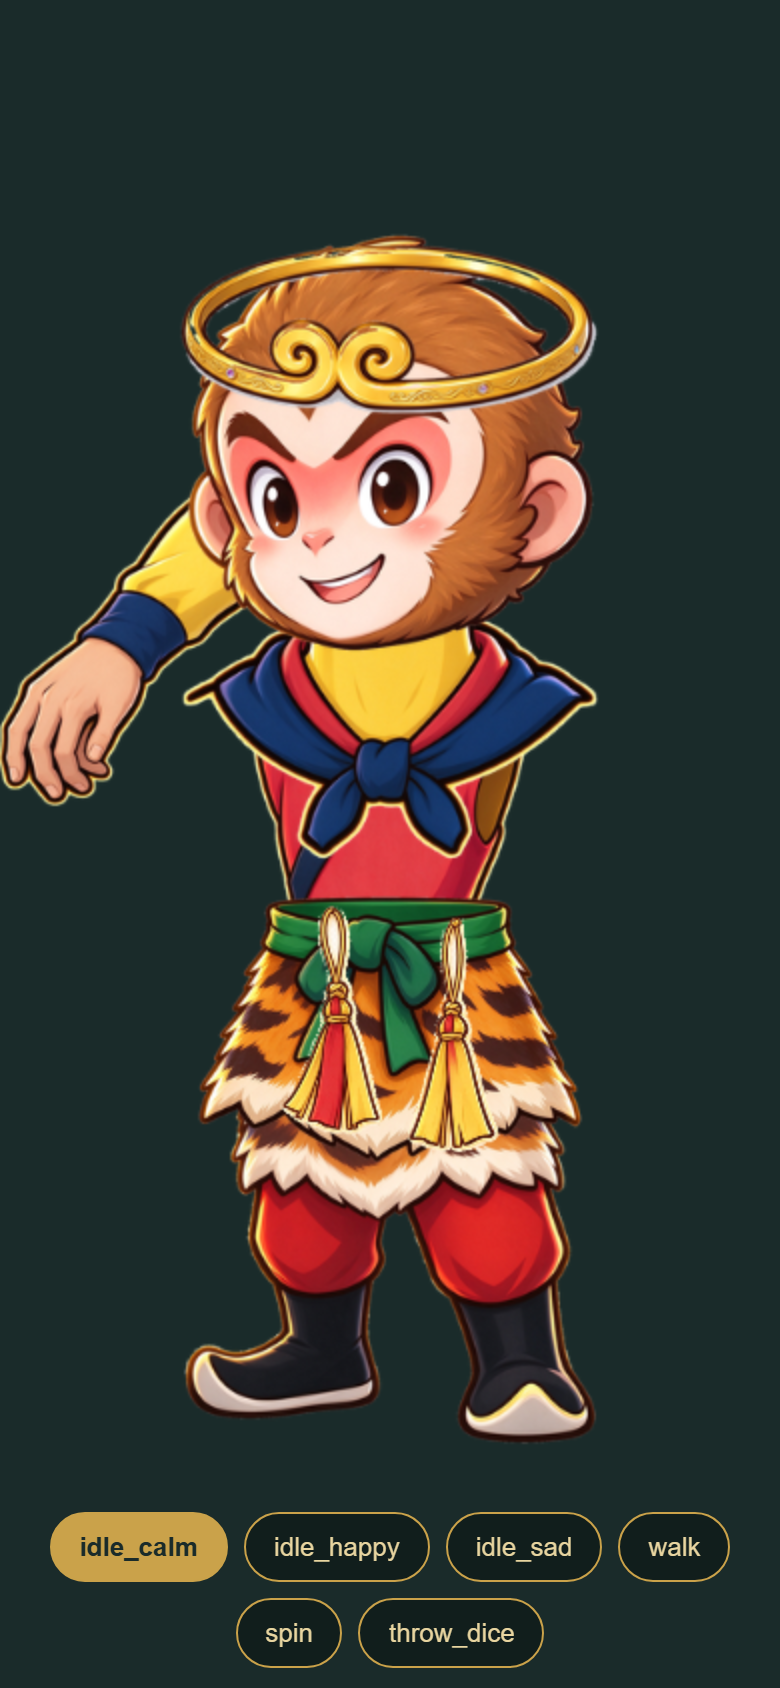
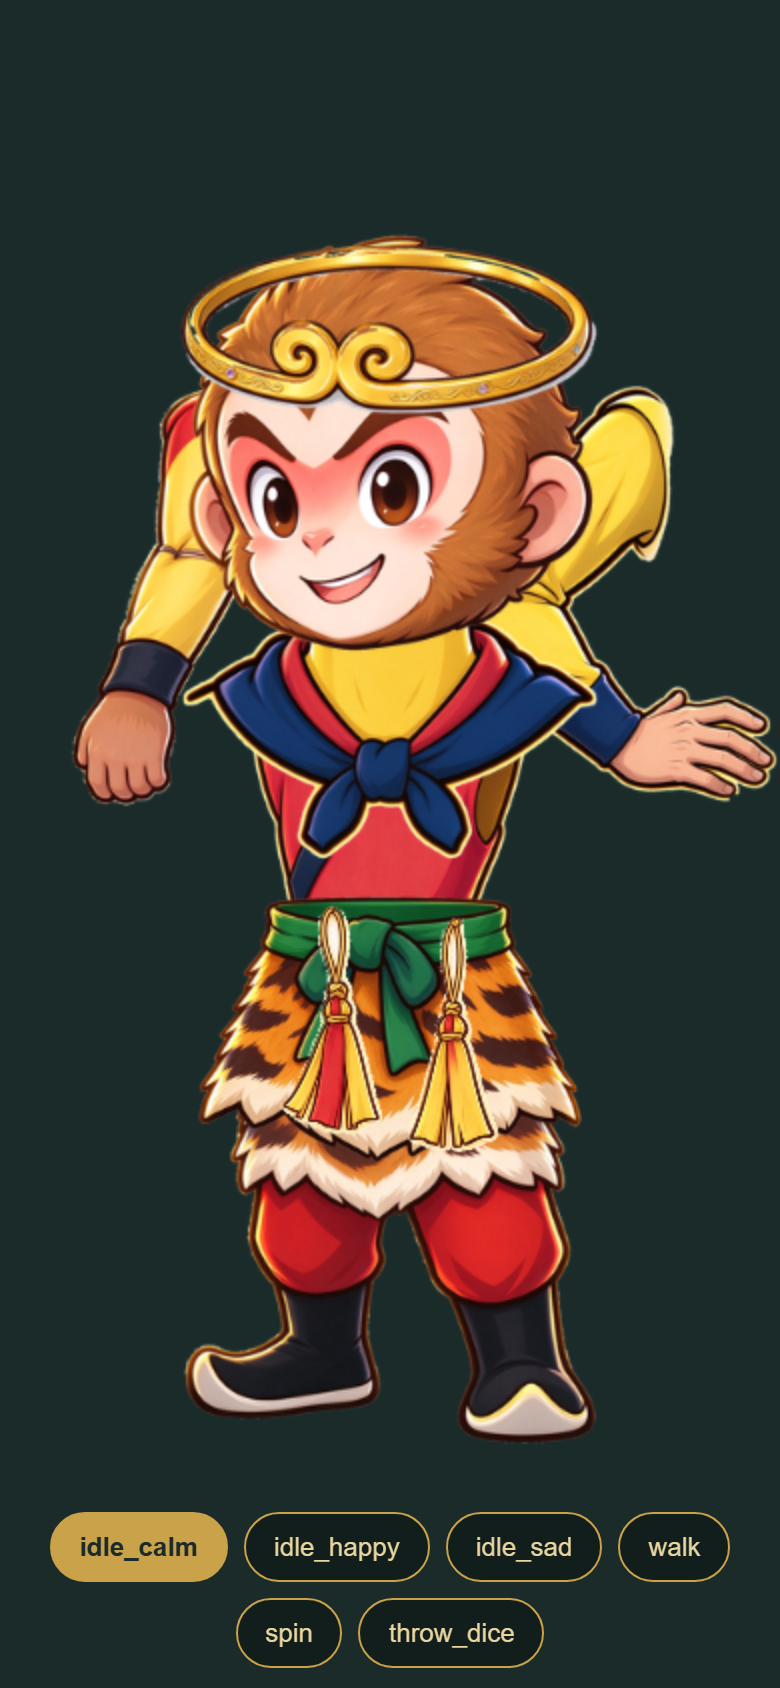
fix(mono-spine): 臂方向再校准（左臂图挂画面左）+ 臂层移到衣服下；剔除已删除旧图(40)/金箍左臂图

Changed region(s): [[0.6154, 0.2156, 1.0, 0.4929], [0.0, 0.2156, 0.3077, 0.4929]]

diff --git a/monopoly/tools/spine-build/build_wukong.py b/monopoly/tools/spine-build/build_wukong.py
@@ -44,20 +44,19 @@ PICK = {
     "孙悟空绿色虎皮裙左摆": "skirt_l",
     "孙悟空绿色虎皮裙右摆": "skirt_r",
     "孙悟空黑色腰带虎皮裙": "skirt_black",
-    # 右臂/左臂语义名互换（用户确认原图方向左右相反，交换后动画引用不变）
-    "孙悟空右手臂向下": "arm_l_down",
-    "孙悟空右手叉腰": "arm_l_fork",
-    "孙悟空右手振臂握拳": "arm_l_fist",
-    "孙悟空右手臂手心朝上可以抛东西": "arm_l_toss",
-    "孙悟空右手臂手掌张开": "arm_l_open",
-    "孙悟空右手握金箍棒图，没有金箍棒": "arm_l_grip",
-    "孙悟空右手持金箍棒": "arm_l_staff",
+    # 右臂（独立右臂图，无需镜像）——方向经用户两轮校准：左臂图挂画面左
+    "孙悟空右手臂向下": "arm_r_down",
+    "孙悟空右手叉腰": "arm_r_fork",
+    "孙悟空右手振臂握拳": "arm_r_fist",
+    "孙悟空右手臂手心朝上可以抛东西": "arm_r_toss",
+    "孙悟空右手臂手掌张开": "arm_r_open",
+    "孙悟空右手握金箍棒图，没有金箍棒": "arm_r_grip",
+    "孙悟空右手持金箍棒": "arm_r_staff",
     # 左臂
-    "孙悟空左手臂向下": "arm_r_down",
-    "孙悟空左手臂振臂握拳": "arm_r_fist",
-    "孙悟空左手臂手部张开": "arm_r_open",
-    "孙悟空左手臂手心朝上抛东西": "arm_r_toss",
-    "孙悟空金箍左手臂带手": "arm_r_band",
+    "孙悟空左手臂向下": "arm_l_down",
+    "孙悟空左手臂振臂握拳": "arm_l_fist",
+    "孙悟空左手臂手部张开": "arm_l_open",
+    "孙悟空左手臂手心朝上抛东西": "arm_l_toss",
     # 腿组（双腿整图）
     "孙悟空足部正面稍息": "legs_idle",
     "孙悟空足部向前走1": "legs_walk1",
@@ -81,13 +80,11 @@ PICK = {
     # 特写手（右手手部/拳头仅此部位，适合特写放大）
     "孙悟空右手手部": "hand_close",
     "孙悟空右手拳头": "fist_close",
-    # 旧部件保留
-    "生成骨架动画与游戏人物设计开发 (40)": "staff_spin",
 }
 # 特写件（手部/拳头特写构图，同 SCALE 会偏大）
 SIZE_SCALE = {"hand_close": 0.5, "fist_close": 0.5, "staff_close": 0.6,
               "dice": 0.42, "spark": 0.7, "headband_anim": 0.9, "tassel": 0.6,
-              "arm_l_grip": 0.55,
+              "arm_r_grip": 0.55,
               "skirt": 0.92, "skirt_l": 0.92, "skirt_r": 0.92}  # 裙身紧贴腰身（用户校准）
 
 SEM_OF = {v: k for k, v in PICK.items()}   # 语义名 → 文件 stem
@@ -192,25 +189,23 @@ def build_skeleton():
 
     # slot: (name, bone, [附件语义名], default)
     SLOTS = [
-        # 绘制顺序=数组顺序（后者在上层）：腿最底→躯干→裙/穗在衣服上→臂→头→手/棒/骰/特效最上
+        # 绘制顺序=数组顺序（后者在上层）：腿→臂在衣服下→躯干→裙/穗→颈→头→手/棒/骰/特效最上
         ("legs",     "legs",    ["legs_idle", "legs_walk1", "legs_walk2", "legs_run1",
                                  "legs_run2", "legs_right", "legs_left",
                                  "legs_tiptoe_l", "legs_tiptoe_f"], "legs_idle"),
+        ("arm_l",    "arm_l",   ["arm_l_down", "arm_l_fist", "arm_l_open", "arm_l_toss"], "arm_l_down"),
+        ("arm_r",    "arm_r",   ["arm_r_down", "arm_r_fork", "arm_r_fist", "arm_r_toss",
+                                 "arm_r_open", "arm_r_grip", "arm_r_staff"], "arm_r_down"),
         ("torso",    "spine",   ["torso", "torso_hands"], "torso"),
         ("skirt",    "skirt_b", ["skirt", "skirt2", "skirt_l", "skirt_r", "skirt_black"], "skirt"),
         ("tassel",   "skirt_b", ["tassel"], "tassel"),
         ("neck",     "neck_b",  ["neck_part"], "neck_part"),
-        ("arm_l",    "arm_l",   ["arm_l_down", "arm_l_fork", "arm_l_fist", "arm_l_toss",
-                                 "arm_l_open", "arm_l_grip", "arm_l_staff"], "arm_l_down"),
-        ("arm_r",    "arm_r",   ["arm_r_down", "arm_r_fist", "arm_r_open", "arm_r_toss",
-                                 "arm_r_band"], "arm_r_down"),
         ("head",     "head",    ["head", "head_laugh", "head_sad", "head_grin",
                                  "head_grit", "head_shock"], "head"),
         ("headband", "band_b",  ["headband", "headband_hair", "headband_anim"], "headband"),
         ("hand_l",   "hand_l",  ["hand_close"], None),
         ("hand_r",   "hand_r",  ["fist_close"], None),
-        ("weapon",   "weapon",  ["staff_15", "staff_30", "staff_45", "staff_close",
-                                 "staff_spin"], None),
+        ("weapon",   "weapon",  ["staff_15", "staff_30", "staff_45", "staff_close"], None),
         ("prop",     "prop",    ["dice"], None),
         ("fx",       "fx",      ["spark", "dice_throw_right", "dice_throw_back"], None),
     ]
